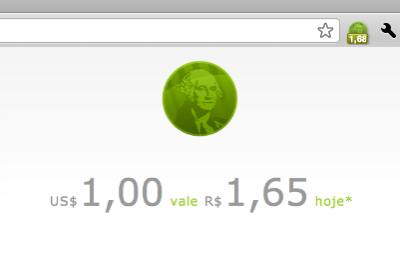
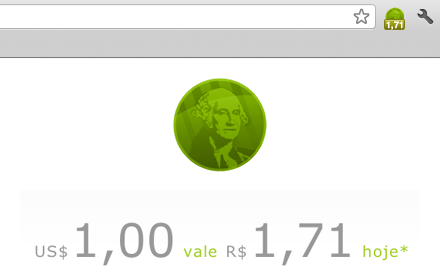
esconde pedido de instalação de extensão do chrome

diff --git a/src/has_extension.js b/src/has_extension.js
@@ -1,0 +1,1 @@
+document.getElementById("aviso_chrome").className += " has_extension";
